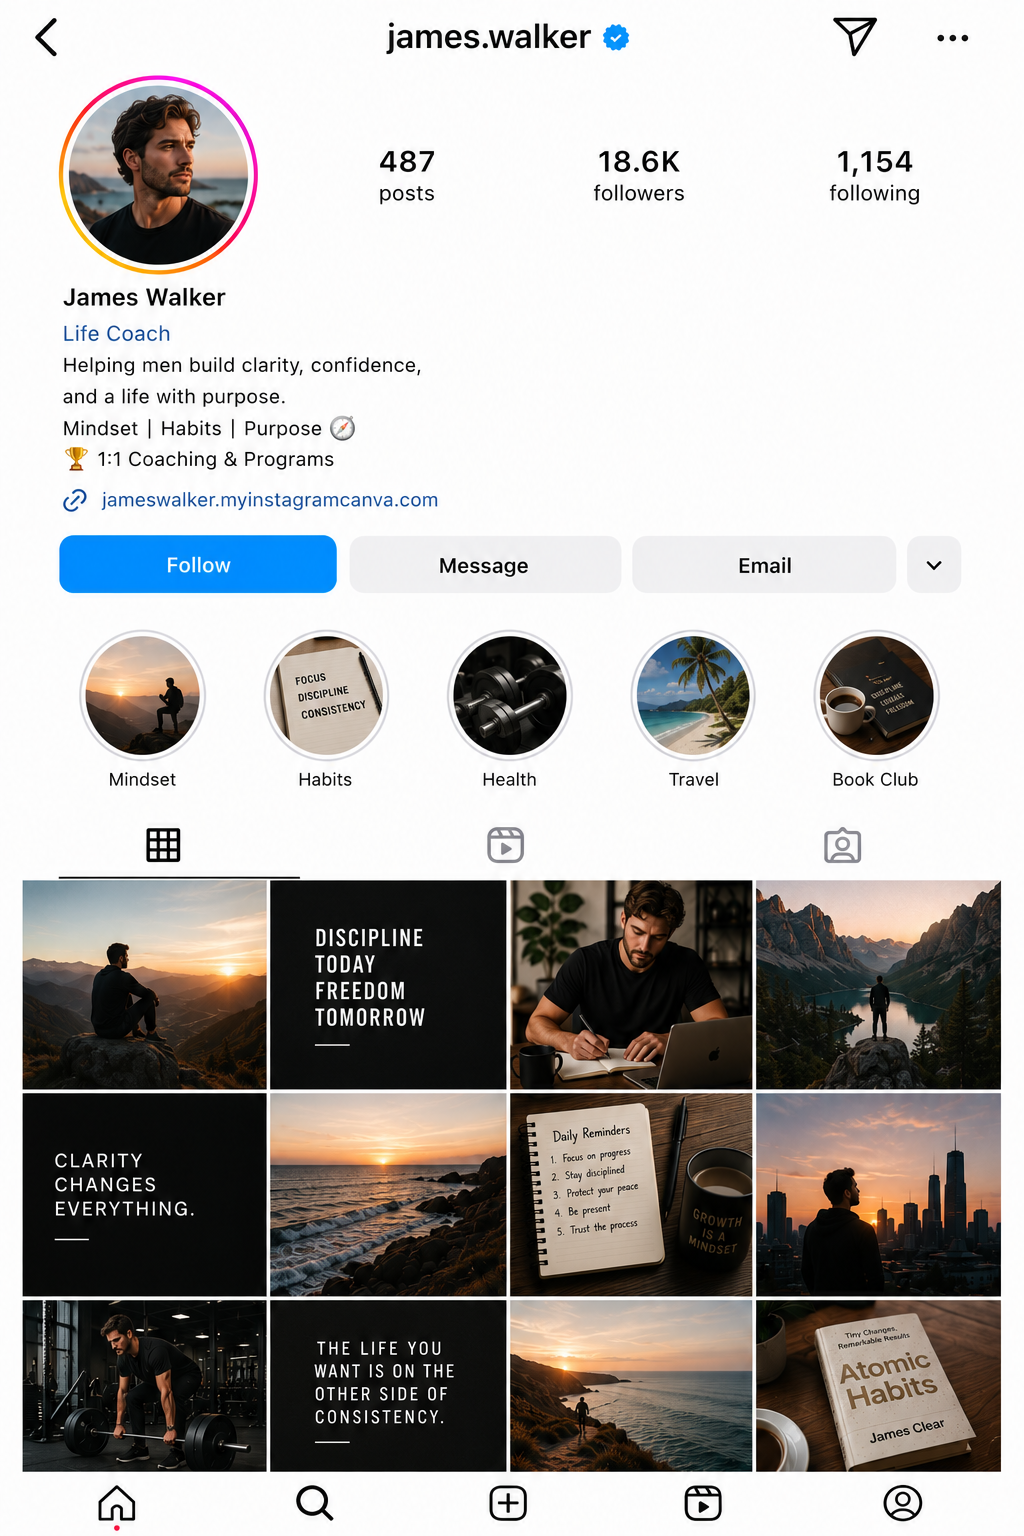
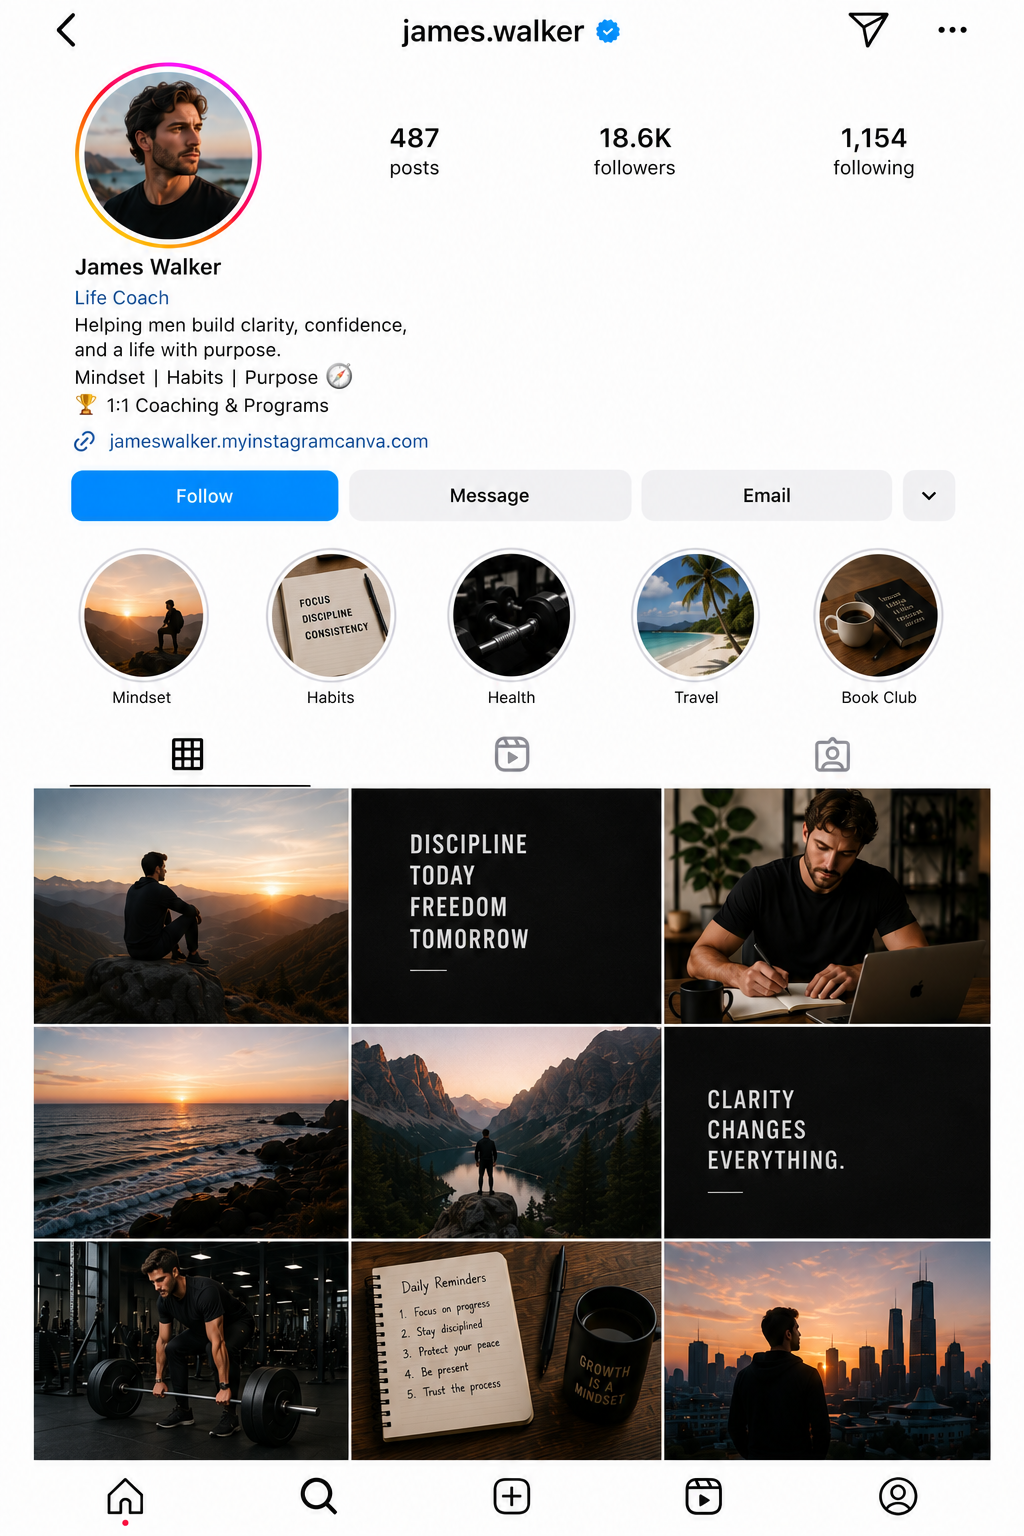
Update landing hero with new IG profile previews.
Replace hero floats with lukethompson and jessicawilson screenshots, refresh chachi-petit-2 mockup, and ignore root source images now copied to public/.

diff --git a/apps/web/src/components/landing/HeroVisualScene.tsx b/apps/web/src/components/landing/HeroVisualScene.tsx
@@ -1,6 +1,6 @@
 import { InstagramCanvaLogo } from "@/components/InstagramCanvaLogo";
 
-/** Branded hero — Chachi Petit IG previews, gradient mesh, logo watermark. */
+/** Branded hero — IG profile previews, gradient mesh, logo watermark. */
 export function HeroVisualScene() {
   return (
     <div className="hero-scene hero-scene--branded" aria-hidden>
@@ -10,7 +10,7 @@ export function HeroVisualScene() {
         <div className="hero-brand-preview">
           {/* eslint-disable-next-line @next/next/no-img-element */}
           <img
-            src="/chachi-petit-1.png"
+            src="/ig-preview-1.png"
             alt=""
             className="hero-brand-preview__img"
             width={390}
@@ -25,7 +25,7 @@ export function HeroVisualScene() {
         <div className="hero-brand-preview">
           {/* eslint-disable-next-line @next/next/no-img-element */}
           <img
-            src="/chachi-petit-2.png"
+            src="/ig-preview-2.png"
             alt=""
             className="hero-brand-preview__img"
             width={390}
